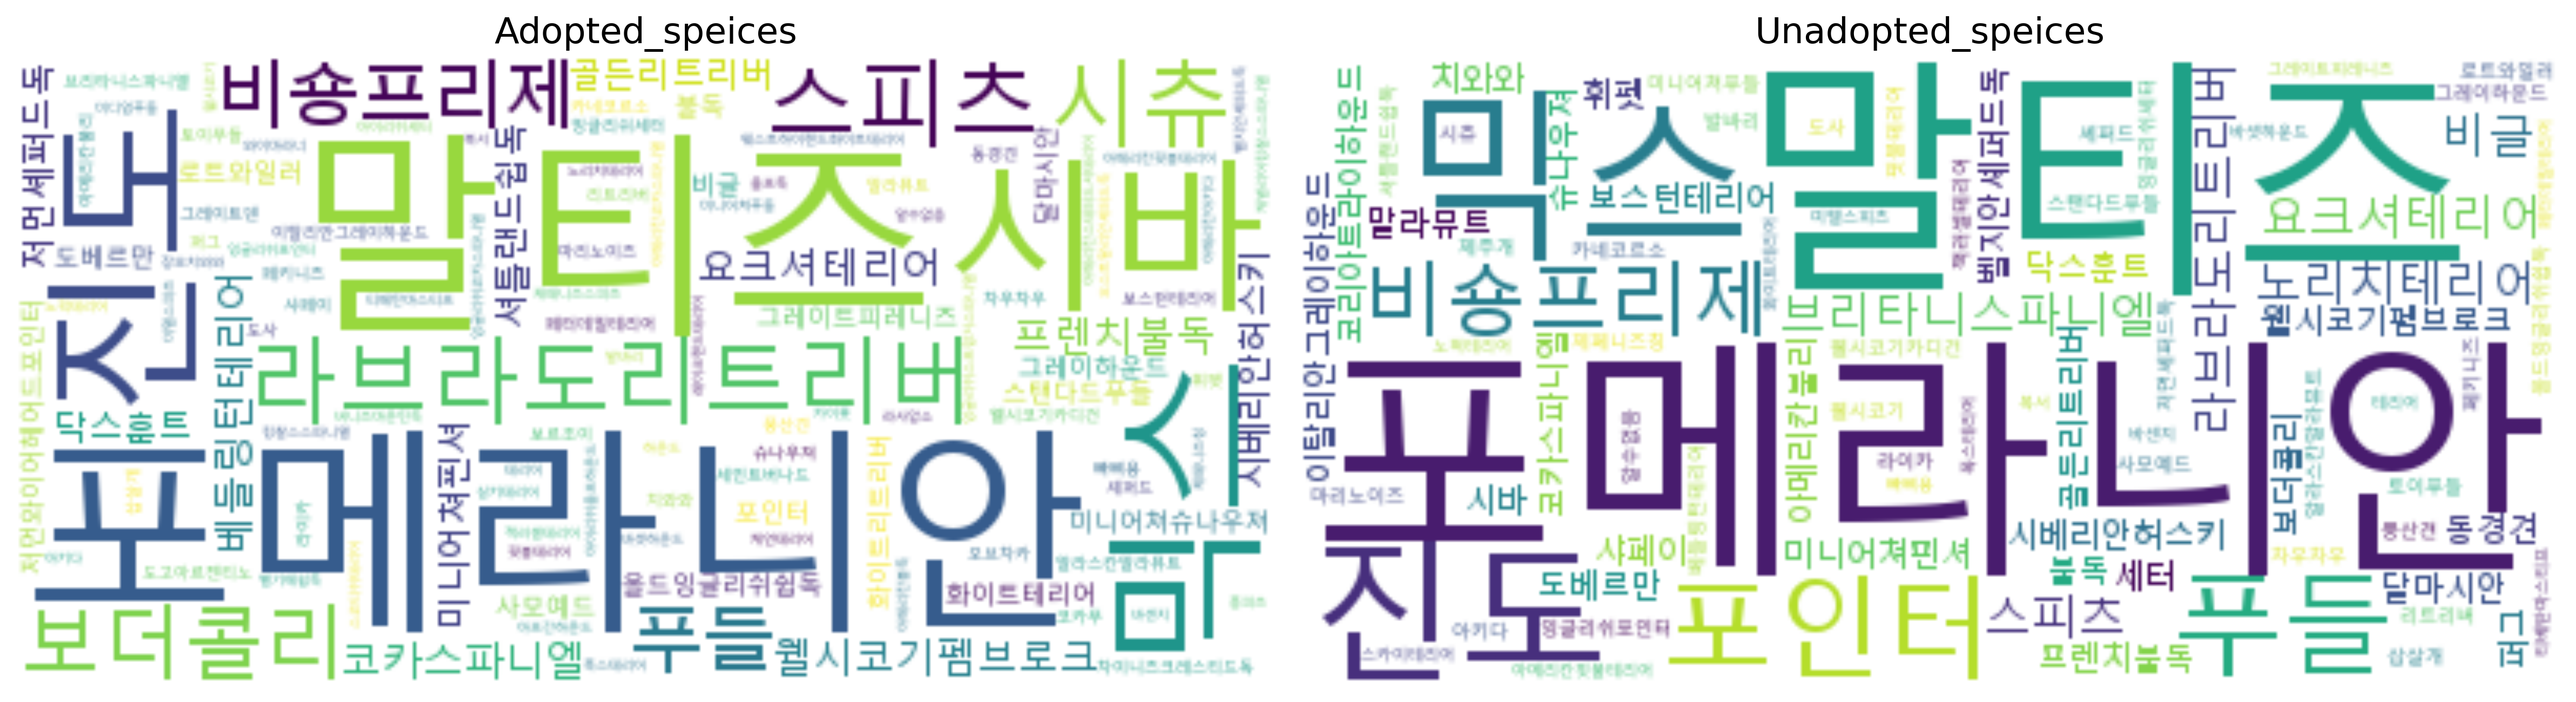
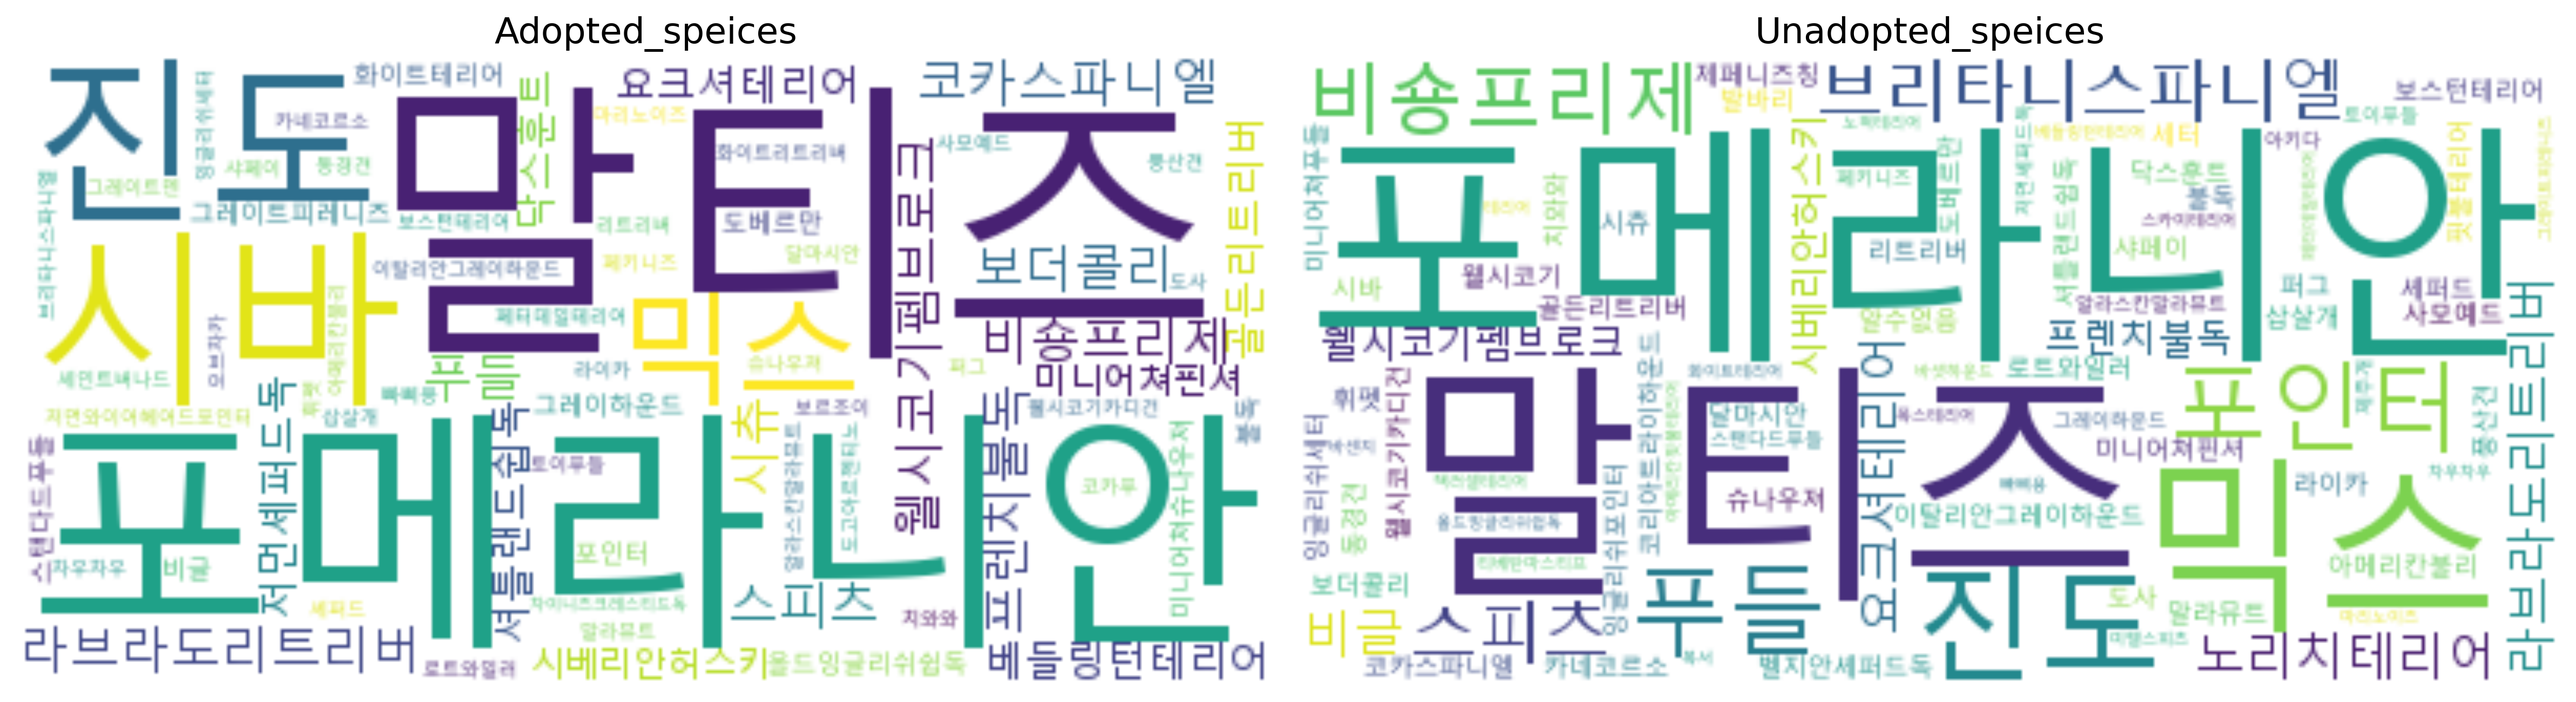
특성 시각화

diff --git a/visualization/wordcloud_for_feature.py b/visualization/wordcloud_for_feature.py
@@ -63,9 +63,9 @@ def read_csv_column(file_path, column_name, encoding='utf-8-sig'):
 
 if __name__ == "__main__":
     # 두 CSV 파일 경로 및 사용할 열 이름
-    adopted_csv_path = '../resource/trait_preprocessing.csv'  # 입양된 데이터 경로
-    unadopted_csv_path = '../resource/trait_unadopted_preprocessing.csv'  # 입양되지 않은 데이터 경로
-    column_name = 'filtered_text'  # 분석할 열 이름
+    adopted_csv_path = '../resource/gpt_preprocessed_data/gpt_adopted_data.csv'  # 입양된 데이터 경로
+    unadopted_csv_path = '../resource/gpt_preprocessed_data/gpt_unadopted_data.csv'  # 입양되지 않은 데이터 경로
+    column_name = 'GPT_특성'  # 분석할 열 이름
 
     # 두 데이터 읽기
     adopted_data = read_csv_column(adopted_csv_path, column_name)
